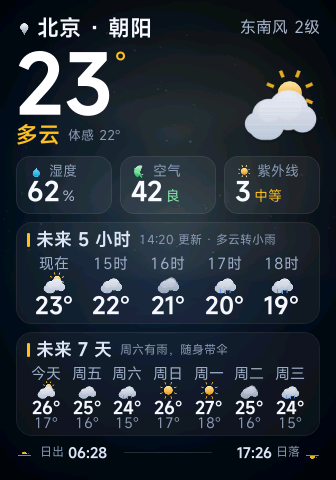
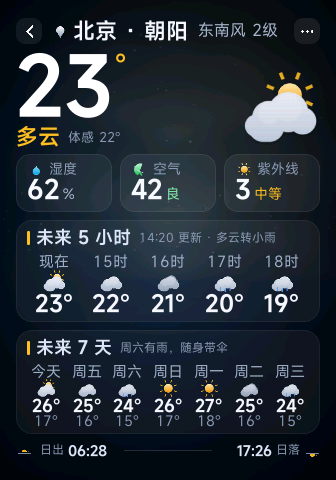
feat(v1): 顶栏 ‹ 退出 + ⋯ 开发者信息（@system.app/@system.device）；实机点击复验并更新文档截图

diff --git a/docs/emulator-verification.md b/docs/emulator-verification.md
@@ -137,3 +137,10 @@ node tools/emulator-panel.cjs        # 打开 http://127.0.0.1:8770/
 - 抓帧：gRPC `getScreenshot` 返回 336×480 PNG，与真机画面一致；面板 `/api/status` 显示 `booted:true / up:true`，`/api/frame` 返回 HTTP 200 + 70498 B PNG。
 - 实测画面：`screenshots/emu-task1-main.png`（336×480 原始）、`screenshots/emu-task1-main@2x.png`（2× 放大）。9 项信息一屏可见、无裁切：地区/温度/湿度/未来 5 小时/未来 7 天/空气/紫外线/风向/日出日落；底部 06:28 / 17:26 完整显示。
 - 已知：屏幕会熄屏（首次点击唤醒）；Vela 单应用限制下切换应用建议重启 VVD；宿主无 GPU，性能不代表真机。
+
+**顶栏交互复验（同版本 v1 + ‹/⋯）**：安装 `vela-weather-336x480.debug.rpk`（md5 `7692bbe5db45bf592db8c5f47c2ec29c`）后 reboot VVD，`am start` 冷启动；
+- 左上 `‹` 点击后应用退出（抓帧 1,650 B 近黑，桌面/灭屏）；
+- 右上 `⋯` 打开开发者信息（包名/版本/设备 Emulator-Vela/系统版本 1.2.0/336×480），`×` 关闭后主屏逐字节还原（70,955 B）；
+- 截图：`screenshots/emu-task1-main.png`、`emu-task1-dev.png`、`emu-task1-exit.png`。
+
+**注意**：`pm install` 不能带 `-r`（Vela 5 返回 `Failed to deal with rpkpackage -38`），直接 `pm install <rpk>` 返回 `(success 0)`；`am start` 在应用已运行时可能只打印 usage，最稳妥是 `adb shell reboot` 后 `am start <包名>`。

diff --git a/docs/CHECKLIST.md b/docs/CHECKLIST.md
@@ -68,3 +68,13 @@
 1. 设计预览 ≠ Vela 运行时渲染：真实截图已核对，整体一致，个别文字基线/图标缩放有 1–2px 差异；
 2. 圆角安全区按社区实测 48px 处理，若真机圆角更大需复核顶栏左侧内容；
 3. `minAPILevel: 2` 下不使用 `box-shadow`/`dp`，若评审环境 API Level 更高也不受影响（向下兼容）。
+
+## 七、顶栏交互（‹ 退出 / ⋯ 开发者信息）复验
+
+| 操作 | 坐标（336×480） | 结果 |
+|---|---|---|
+| 点左上角 `‹` | (22, 29) | 快应用退出，屏幕回到桌面/灭屏（截图 1,650 B 的近黑帧），退出链路生效 |
+| 点右上角 `⋯` | (313, 29) | 页内「开发者信息」覆盖层打开：包名 / 版本 1.0.0 (1) / 设备 Emulator-Vela / 系统版本 1.2.0 / 屏幕 336×480 / 框架 Vela 快应用 |
+| 点覆盖层 `×` | (290, 155) | 覆盖层关闭，主屏完全还原（截图与关闭前逐字节一致） |
+
+实现方式：`@system.app` + `@system.device`，均为 Vela 官方系统接口；无网络、无第三方依赖；`app.terminate()` 失败时回退 `router.back()` + toast。截图：`screenshots/emu-task1-main.png`、`emu-task1-dev.png`、`emu-task1-exit.png`。
